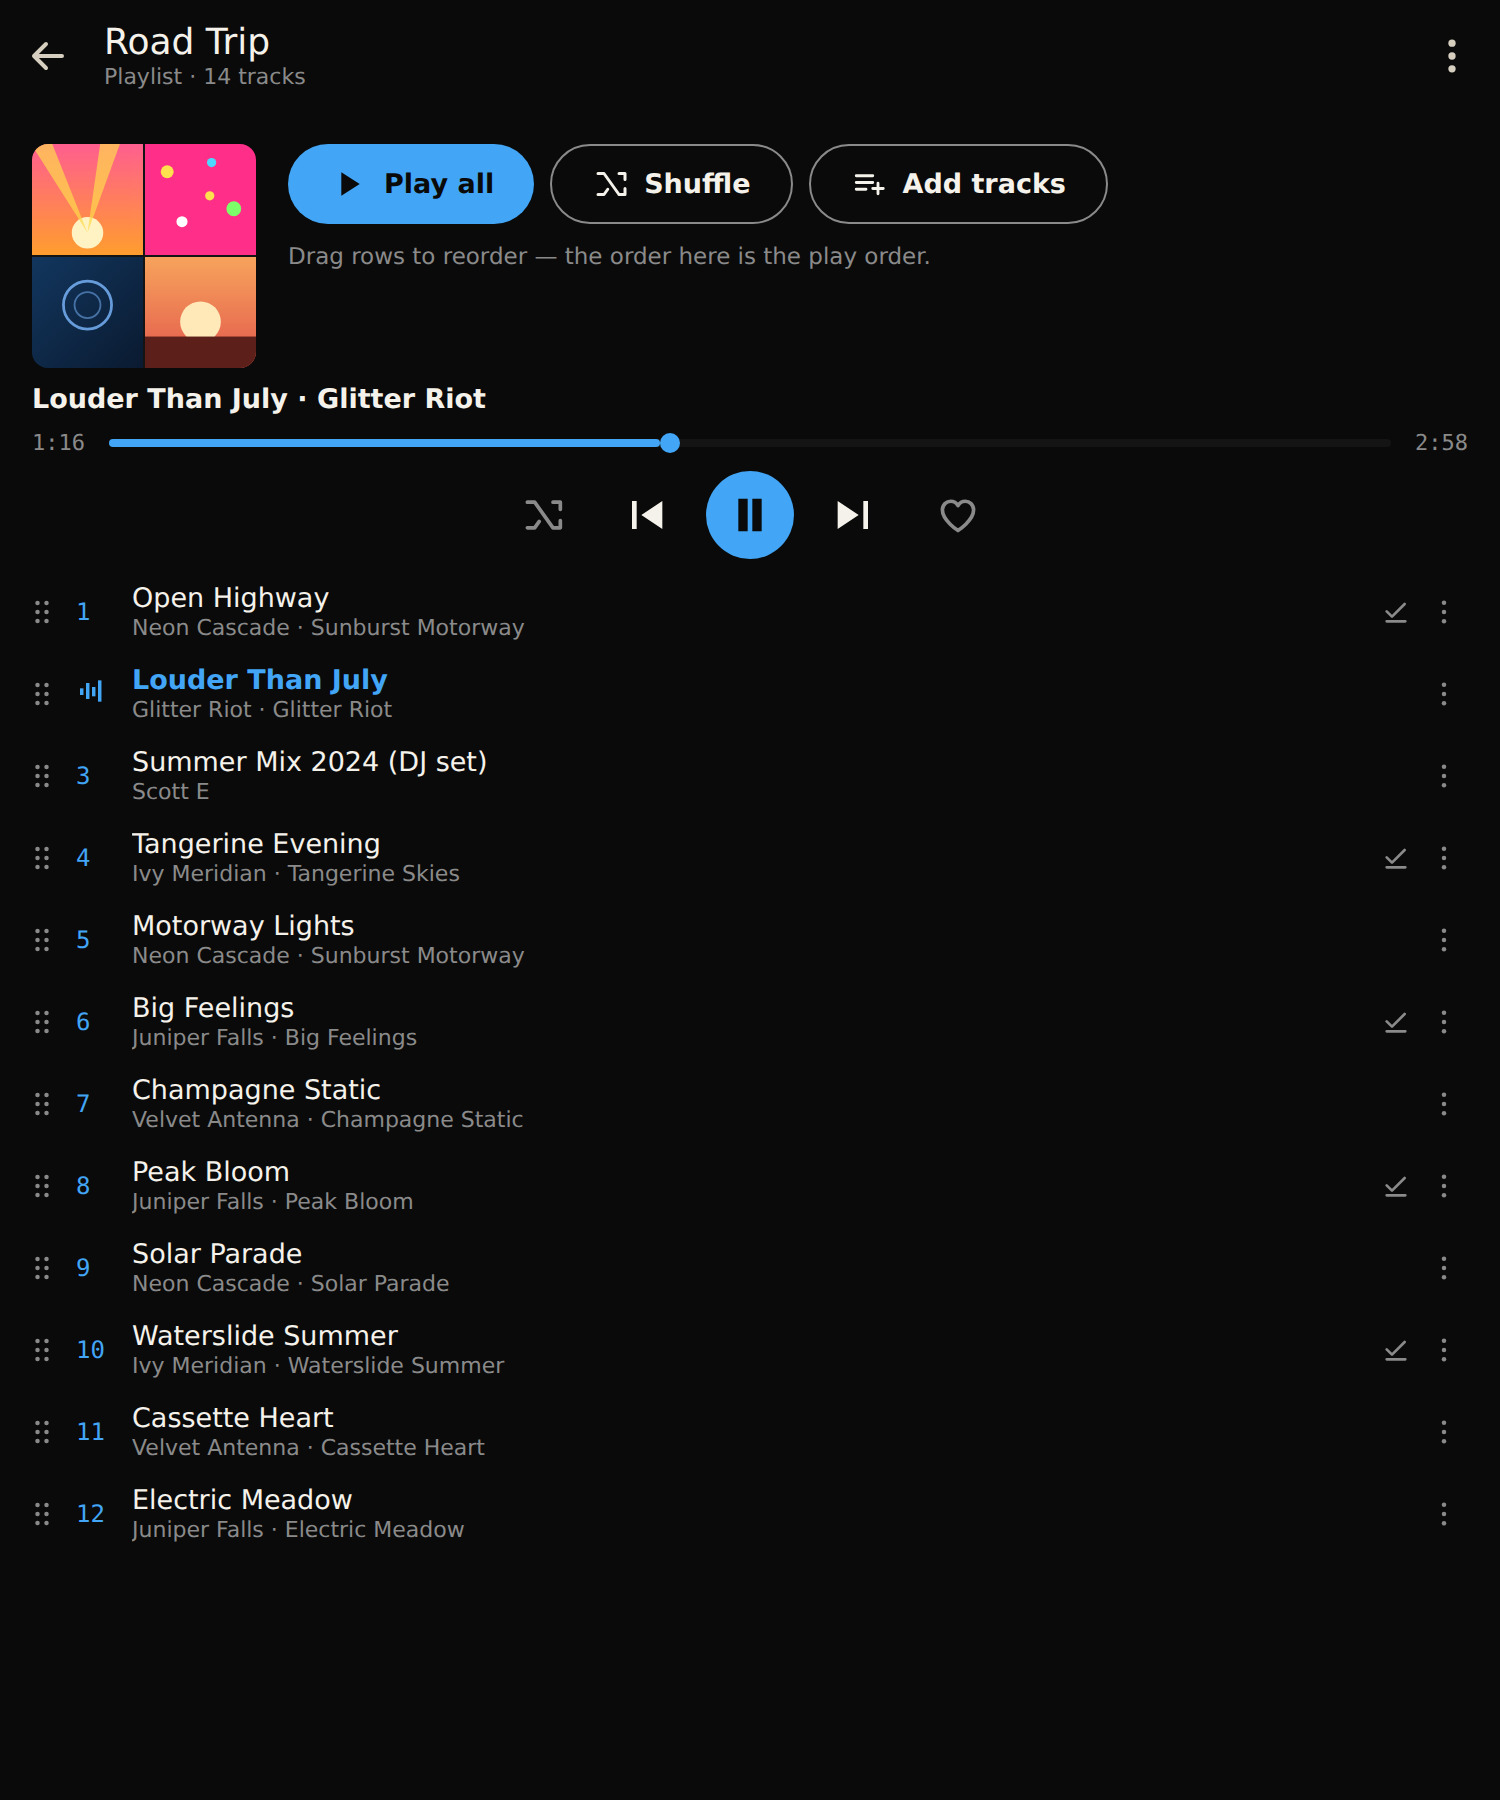
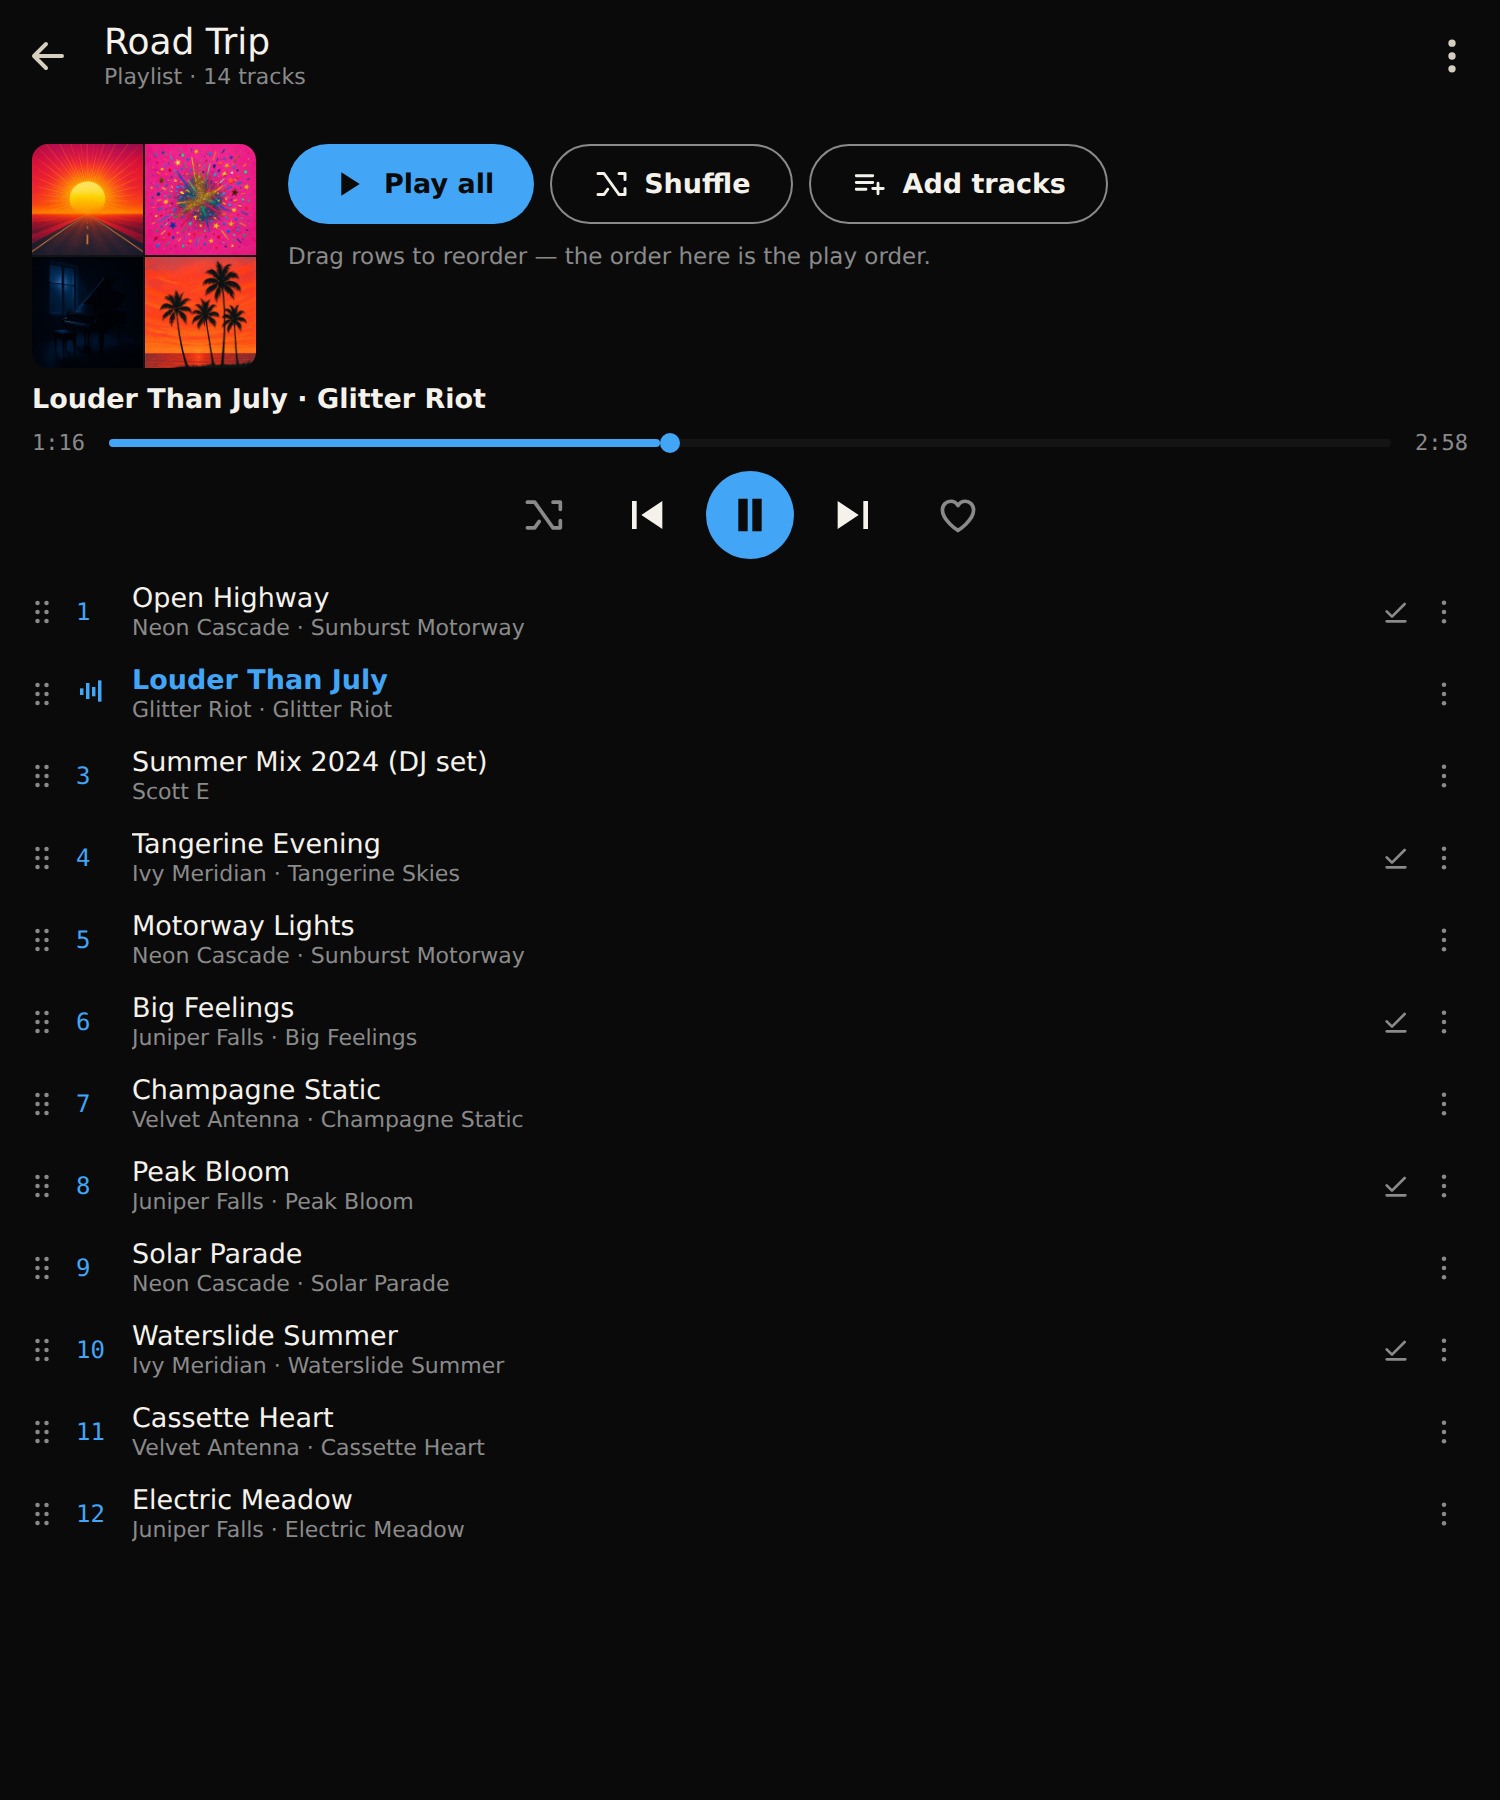
docs: README screenshots with realistic poster and album artwork

Changed region(s): [[0.0, 0.0622, 0.184, 0.2178]]

diff --git a/CLAUDE.md b/CLAUDE.md
@@ -73,6 +73,7 @@ v0.1.0-alpha.64 "UPLOAD" RELEASED (2026-08-27, AppImage + Windows zip + APK; tag
 - Repo: github.com/aautonomicc/Watch-It — LICENSING (2026-08-03): own source MIT (LICENSE), but binaries statically link self_encryption 0.36.0 (GPL-3.0) so every released APK/AppImage is a combined work offered under GPLv3 (COPYING.GPL-3.0 at repo root, README ## License). In-app notice: Settings → About → Open-source licenses (showLicensePage) + services/licenses.dart registerNativeLicenses() (called in main()) registering W@tch MIT+GPLv3 note, self_encryption GPL full text (asset assets/licenses/gpl-3.0.txt), watchit_core Rust crate list, libmpv/FFmpeg notice, Anton OFL
 
 ## Recent Changes
+- [2026-09-25] README SCREENSHOTS → REALISTIC AI ARTWORK (docs-only): home/detail/season/music/album/playlist JPEGs re-rendered from the same pixel-faithful HTML mocks with gpt-image-1 art replacing the hand-drawn SVGs (16 posters, 17 album covers, 8 episode stills — all prompted text-free, titles overlaid as HTML). needs-sorting-linux.jpg unchanged (no artwork on that screen). Home caption now says the artwork is AI-generated. Assets + build scripts in ~/wi-mock-assets (gen_posters.py, gen_more.py, build.py, build_rest.py), NOT in the repo.
 - [2026-09-23] v0.1.0-alpha.106 RELEASED (release publish task; "status of the builds?" found the Windows tag build FAILED — BtbN had pruned the pinned ffmpeg tag autobuild-2026-09-08-23-15, the alpha.93 failure class): repinned windows.yml to autobuild-2026-09-23-14-55 / ffmpeg-n8.1.3-win64-gpl-shared-8.1 (fresh sha256 0647... verified against a local download incl. zip contents), commit 78386a7 + tag v0.1.0-alpha.106 moved onto it and force-pushed → all three tag CI runs green (CI 35890777632, Windows 35890781884, macOS 35890781925). Local APK+AppImage from the bump commit stay valid (repin touches only the workflow): APK aapt2-verified versionCode 106 + leanback + both ABIs + cert 7911…0a69; Windows zip (59 files — the new ffmpeg shared build ships 2 extra DLLs) + dmg (koly-verified) pulled from tag CI artifacts; clean-HOME Xvfb :78 smoke (Terms renders, 7 bootstrap peers dialing, /tmp/wi106-smoke.png); gh release create --latest w/ the prepared /tmp/wi106-notes.md → https://github.com/aautonomicc/Watch-It/releases/tag/v0.1.0-alpha.106 (Latest, 4 assets); all four GitHub per-asset sha256 digests verified byte-identical to local files (valid self-update source — alpha.101+ installs take this in-app). ~/.local/bin/watch-it repointed. User on-device passes: desktop keyboard map/window memory/hover thumbnails on a real desktop, Data-page graph + transport tagging on a phone, My W@tch sync reporting on the Streamer, About-on-TV + Check-for-updates-now on the Streamer.
 - [2026-09-23] DESKTOP POLISH TRIO: KEYBOARD MAP + WINDOW MEMORY + HOVER SEEK THUMBNAILS (RELEASED in v0.1.0-alpha.106; implements the 2026-09-23 scoping's practical plan — items 1+2 in full, item 3 restricted to DOWNLOADED-LOCAL files per the same-day data-cost discussion): (1) KEYBOARD MAP — NEW widgets/player_shortcuts.dart: `PlayerShortcutActions` (plain callbacks, unit-testable without a Player) + `playerKeyboardShortcuts()` building the full mpv-style desktop map (space/K play-pause, ←→ & J/L ±10s, ↑↓ volume ±5, M mute w/ last-volume restore, F/Esc fullscreen, S frame-as-artwork (hidden for kid profiles), 0–9 & numpad percent-seek, `?` → `showPlayerShortcutHelp` sheet driven by `kPlayerShortcutHelp`, media play/pause keys) — passed via `desktopControlsTheme`'s new `keyboardShortcuts:` param into the vendored theme (REPLACES the package's stock bindings; NO fork edit needed — the theme field existed). Fullscreen drives through a `GlobalKey<VideoState>` on the Video widget (`toggleFullscreen()`/`exitFullscreen()` — the shortcut callbacks run with PlayerScreen's context, which sits ABOVE the video subtree the package's context-based helpers need). (2) WINDOW POLISH — NEW dep window_manager 0.5.2 + NEW services/window_state.dart: `WindowStateKeeper` (started from main(), desktop-only no-op elsewhere) enforces `kMinWindowSize` 800×600 (deliberately under the 1000px pinned-drawer breakpoint so both home layouts stay reachable) and remembers size/position/maximized in pref `window_state_v1` (debounced 600ms off window_manager resize/move/maximize events; maximizing never clobbers the stored normal bounds; `WindowStateData` codec is pure + garbage-tolerant — garbage pref = runner default); macOS MainMenu.xib default aligned 800×600 → 1280×720 (Linux/Windows runners were already 1280×720). (3) HOVER SEEK THUMBNAILS — VENDORED-FORK EDIT (material_desktop.dart): theme gains `seekBarHoverPreviewBuilder(context, position)` + the seek bar's Stack renders it above the bar while hovered/dragging, positioned by public `SeekBarPreviewLayoutDelegate` (centered on the pointer, CLAMPED inside the bar width — unit-tested) under an IgnorePointer in a 140px slot (Clip.none overlay); NEW services/seek_preview.dart `SeekPreview` (5s buckets, 180ms debounce so only a RESTING pointer costs a grab, serialized single-flight extraction chasing the newest bucket, failed-bucket negative cache, 64-entry LRU) over `FfmpegService.extractFrame` (maxHeight 180) + NEW widgets/seek_preview_card.dart `SeekPreviewCard` (160px thumb w/ gaplessPlayback + mono timestamp pill; timestamp-only until the frame lands); PlayerScreen builds a SeekPreview ONLY for `_isLocal && isDesktopPlatform && !_isAudio` (rebuilt on up-next chaining via the new `_url` field, disposed w/ the screen) — STREAMED sources deliberately get the bare timestamp bubble (a frame grab over `/xor` opens a fresh engine prefetch window per hover point, competing with playback). Tests 1230 (+18: player_shortcuts_test key-event dispatch through a real CallbackShortcuts incl. `?`-as-character + media keys + kid-S-omission + help-sheet widget matrix; seek_preview_test debounce/cache-once/failure-cache/in-flight-chase/LRU/card-states + fork delegate clamp pins; window_state_test codec round-trip/garbage/min-clamp/breakpoint guard) + analyze clean. LIVE Xvfb :77 verify (debug bundle + release .so, fresh HOME, seeded local done download of a 2-min testsrc movie): local playback → hover over the seek bar rendered REAL per-position thumbnails (frame counter 62 at 1:00, 102 at 1:44 — correct bucket frames) w/ timestamp pill, clamped at the right edge, working in fullscreen too; key `5` jumped to 50% (counter 60s), `?` opened the shortcut sheet, `M` muted (crossed icon), `F`/Esc entered/left fullscreen; window resized 1120×640 → pref `{"w":1120,"h":640,...}` after the debounce → RESTART opened at 1120×640 (runner default 1280×720), and a 500×300 resize attempt snapped to the 800×600 minimum (/tmp/wipolish/shots/1-terms…16-restored.png). NOT verified on real Windows/macOS: window restore there (same standing gap — thin window_manager calls, codec unit-pinned); macOS xib default needs the next mac build.
 - [2026-09-23] DATA PAGE: DAILY GRAPH + WI-FI/MOBILE SPLIT + DAILY DATA ALERT (RELEASED in v0.1.0-alpha.106; implements the 2026-09-23 placement recommendation + mockups for the trio deferred from the 2026-09-04 data-usage plan, all on the existing Settings → Network → Data page — no new tiles or sub-pages, build order buckets → tagging → alerts as planned): (1) DAILY BUCKETS (Rust datausage.rs): every add (x0x sampler deltas, ant wire-summary deltas) also lands in a per-LOCAL-day bucket (new `chrono` direct dep for the local date key — already in the tree via ant-core, so no new code compiled; android-tzdata gives the real device timezone on Android) keyed `YYYY-MM-DD` in a BTreeMap pruned to `DAYS_KEPT` 35, persisted in datausage.json beside the period and NOT touched by `reset()` — Reset means "start the period from now", the history graph survives (dialog copy says so). `GET /stats` gains a `days` array (oldest first, per-component splits). (2) WI-FI vs MOBILE TAGGING: the app reports the OS transport over new protected `POST /stats/transport` `{"mobile": bool}` (main.dart posts at startup + on every NetworkEvents change via `EmbeddedClient.reportMobileData`; Rust default false = under-tags, never over-tags); `ComponentUsage` + day buckets gain `mob_rx`/`mob_tx` (mobile ≤ total by construction) in period, days, total and persistence. Tagging attributes bytes at RECORD time — the ~5-min cumulative ant summary attributes its whole delta to the transport current at fold time, an accepted approximation (documented in the module docs). (3) DATA PAGE UI (data_screen.dart): compact 7-day two-tone stacked bar graph directly under the total card (accent Wi-Fi/other over amber mobile, today bright + labelled "Today", zero days draw a 2px stub, legend row, mobile legend dot only when any mobile bytes; hidden entirely on an old core whose /stats lacks `days`); tapping a bar RE-SCOPES the total card ("Data used on Saturday 19 Sep") + component rows to that day, with the Since line replaced by "Showing … only · Show whole period" and period-only furniture (rate row, ant media/freshness extras, Reset, footnote) hidden; the total card gains an amber "Mobile data: ↑ · ↓" line when the scope has mobile bytes (hidden at zero — desktops never see it); Since line gains "· tap a day for details". (4) DAILY DATA ALERT: new ListTile directly below Auto-pause when idle (bell icon, same picker-dialog idiom) — Off (default) / 1 / 2 / 5 / 10 GB in one day via `AppSettings.dataAlertGb` (pref `data_alert_gb_v1`), dialog footnote "nothing is paused or cut off"; NEW services/data_alert.dart `DataAlert` singleton (started from main, first check 1 min then every 5 min, injectable stats/clock): when today's day-bucket total passes the level it shows ONE snackbar per local day (pref `data_alert_notified_day_v1`, marked only after the messenger actually showed it) — ALERT-ONLY by design, never touches the pause machinery; the Data page shows a matching amber warning line under the graph while today is over. Model: `UsageBytes` gains mobRx/mobTx, new `DayUsage` + `DataUsageStats.days` (null on old cores) + `dayFor()` + `localDayKey()` (must match chrono's key — pinned by test). Tests 81 cargo (+3: transport tagging into period+days, day-bucket pruning, persistence round trip incl. days/mob + reset-keeps-history; server test extended w/ /stats/transport 401/400/echo + days survive reset) + 1194 flutter (+8: model days/mob parse incl. malformed-day tolerance + old-core null, reportMobileData posts, graph render/tap-rescope/return, old-core hides graph+hint, alert tile persist + warning line, data_alert_test.dart once-per-day/next-day-fires/under-off-oldcore-quiet) + analyze clean. LIVE Xvfb :77 verify (throwaway DataScreen entrypoint lib/main_data.dart, deleted; debug bundle + fresh release .so, fresh HOME, REAL mainnet): curl /stats shows days+mob fields, POST /stats/transport 200 w/ token + 401 without; set mobile=true → the app's first real 300s wire summary (67KB/54KB) landed period+today FULLY mobile-tagged → amber Today bar + amber "Mobile data: ↑ 53 KB · ↓ 66 KB" card line on screen; flipped to wifi → second summary stacked accent-on-amber TWO-TONE bar; day-tap → "Data used on Saturday 19 Sep" scoped view w/ Show-whole-period back; alert dialog picked 5 GB → pref on disk; datausage.json holds the days across the 60s save; live Reset → period 0 B while the two-tone bar + days (629KB) SURVIVED on screen and in /stats (/tmp/widata/shots/1-launch…8-afterreset.png). Docs: ROADMAP trio item ticked, UI-DESIGN Data-page bullet extended. NOT live-exercised: the alert snackbar itself (needs GB-scale traffic; pinned by 3 service tests) and a real Android transport flip (no device on Ella — NetworkEvents wiring is the shipped X0xCellularGate path).

diff --git a/README.md b/README.md
@@ -35,7 +35,8 @@ with no account and no cloud.
 *The W@tch home screen on desktop: Continue Watching, Recently Added and your
 own lists — with your playlists a click away in the library panel — streamed
 straight from Autonomi: no key, no account, no server.
-(Sample library — the titles shown are invented for the screenshot.)*
+(Sample library — the titles are invented and the poster and album artwork is
+AI-generated for the screenshots.)*
 
 Want a ready-made library? It's a one-file download:
 [**Public Domain.watch-list**](catalog/README.md) — 40 public-domain
